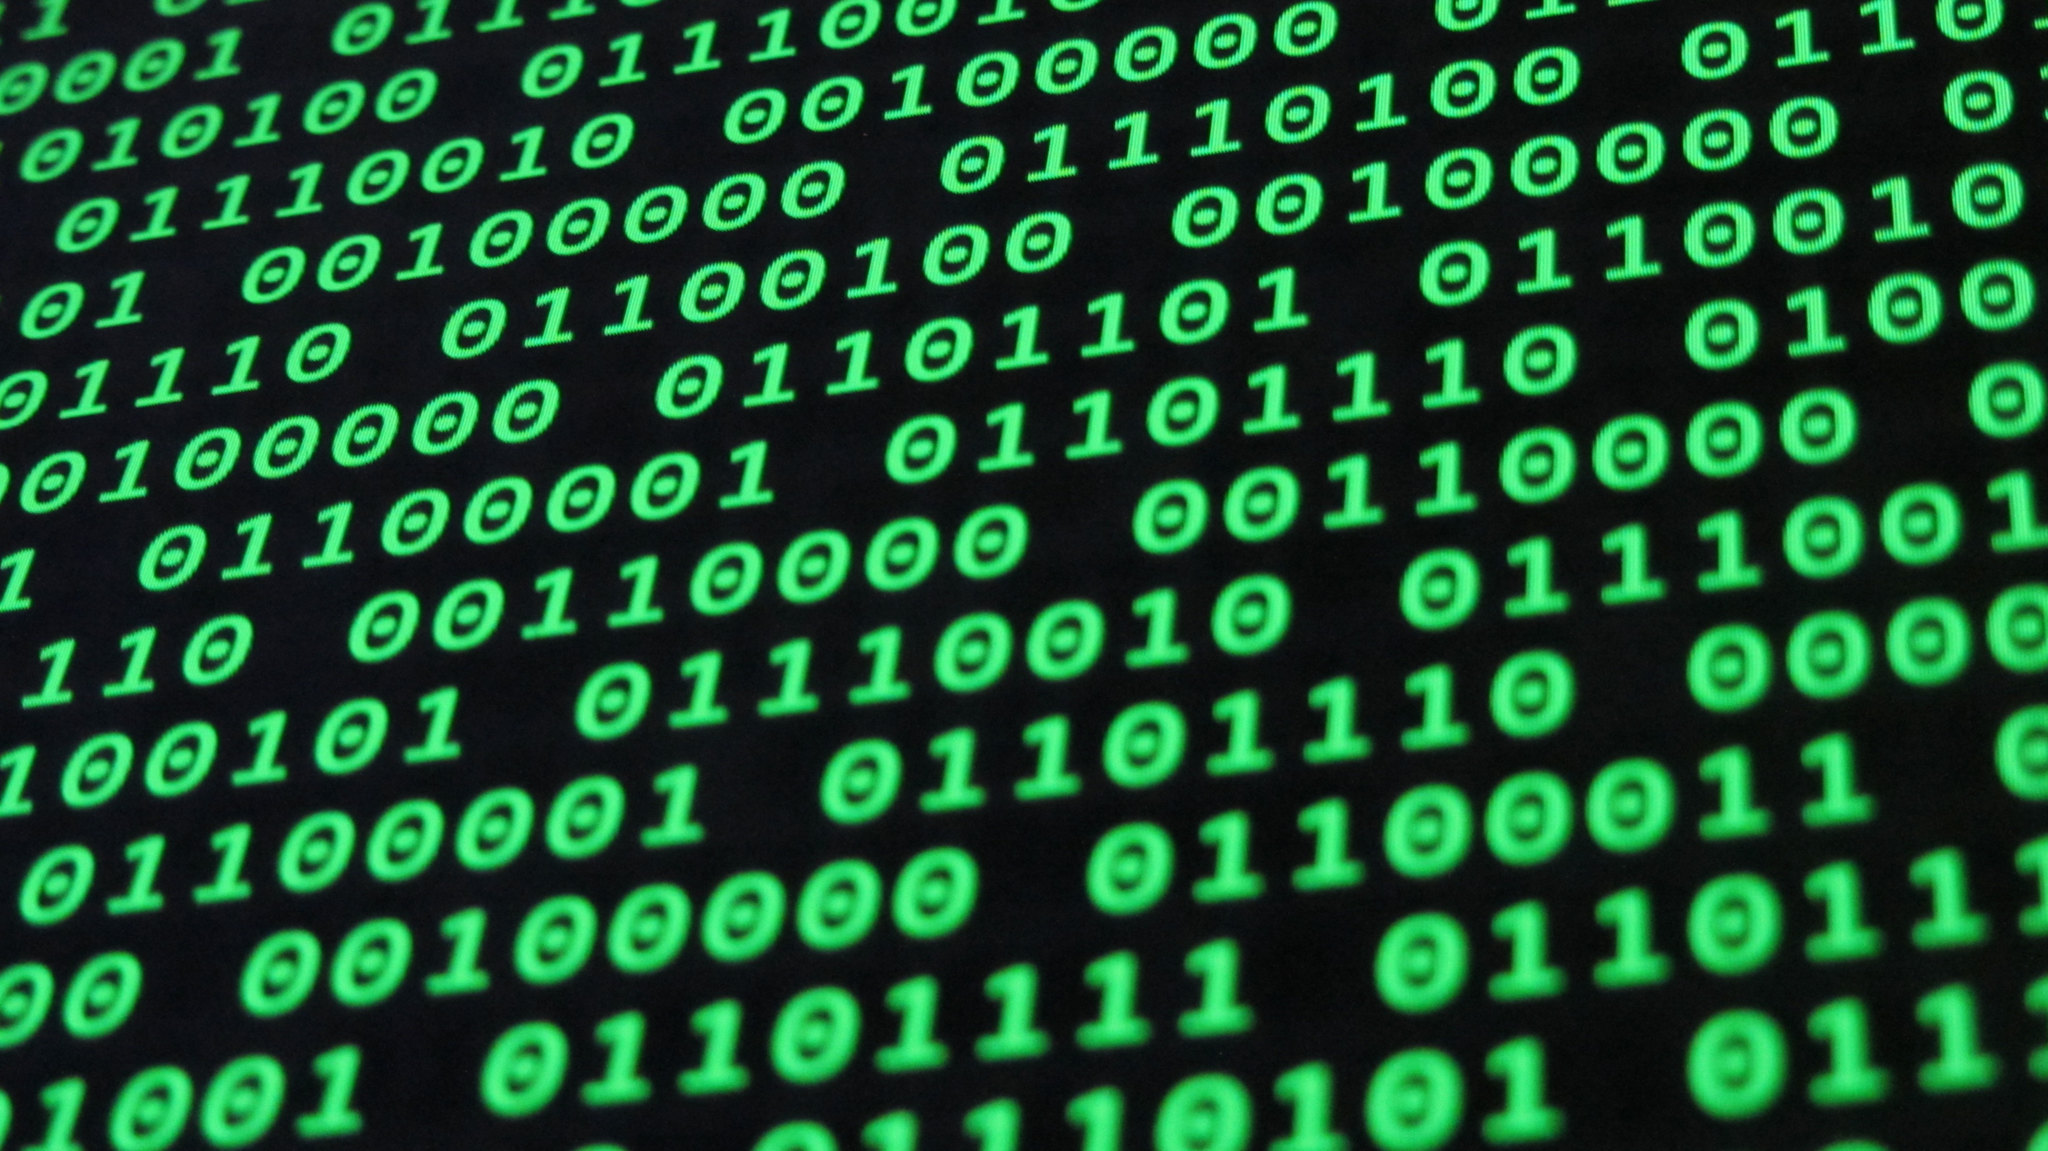
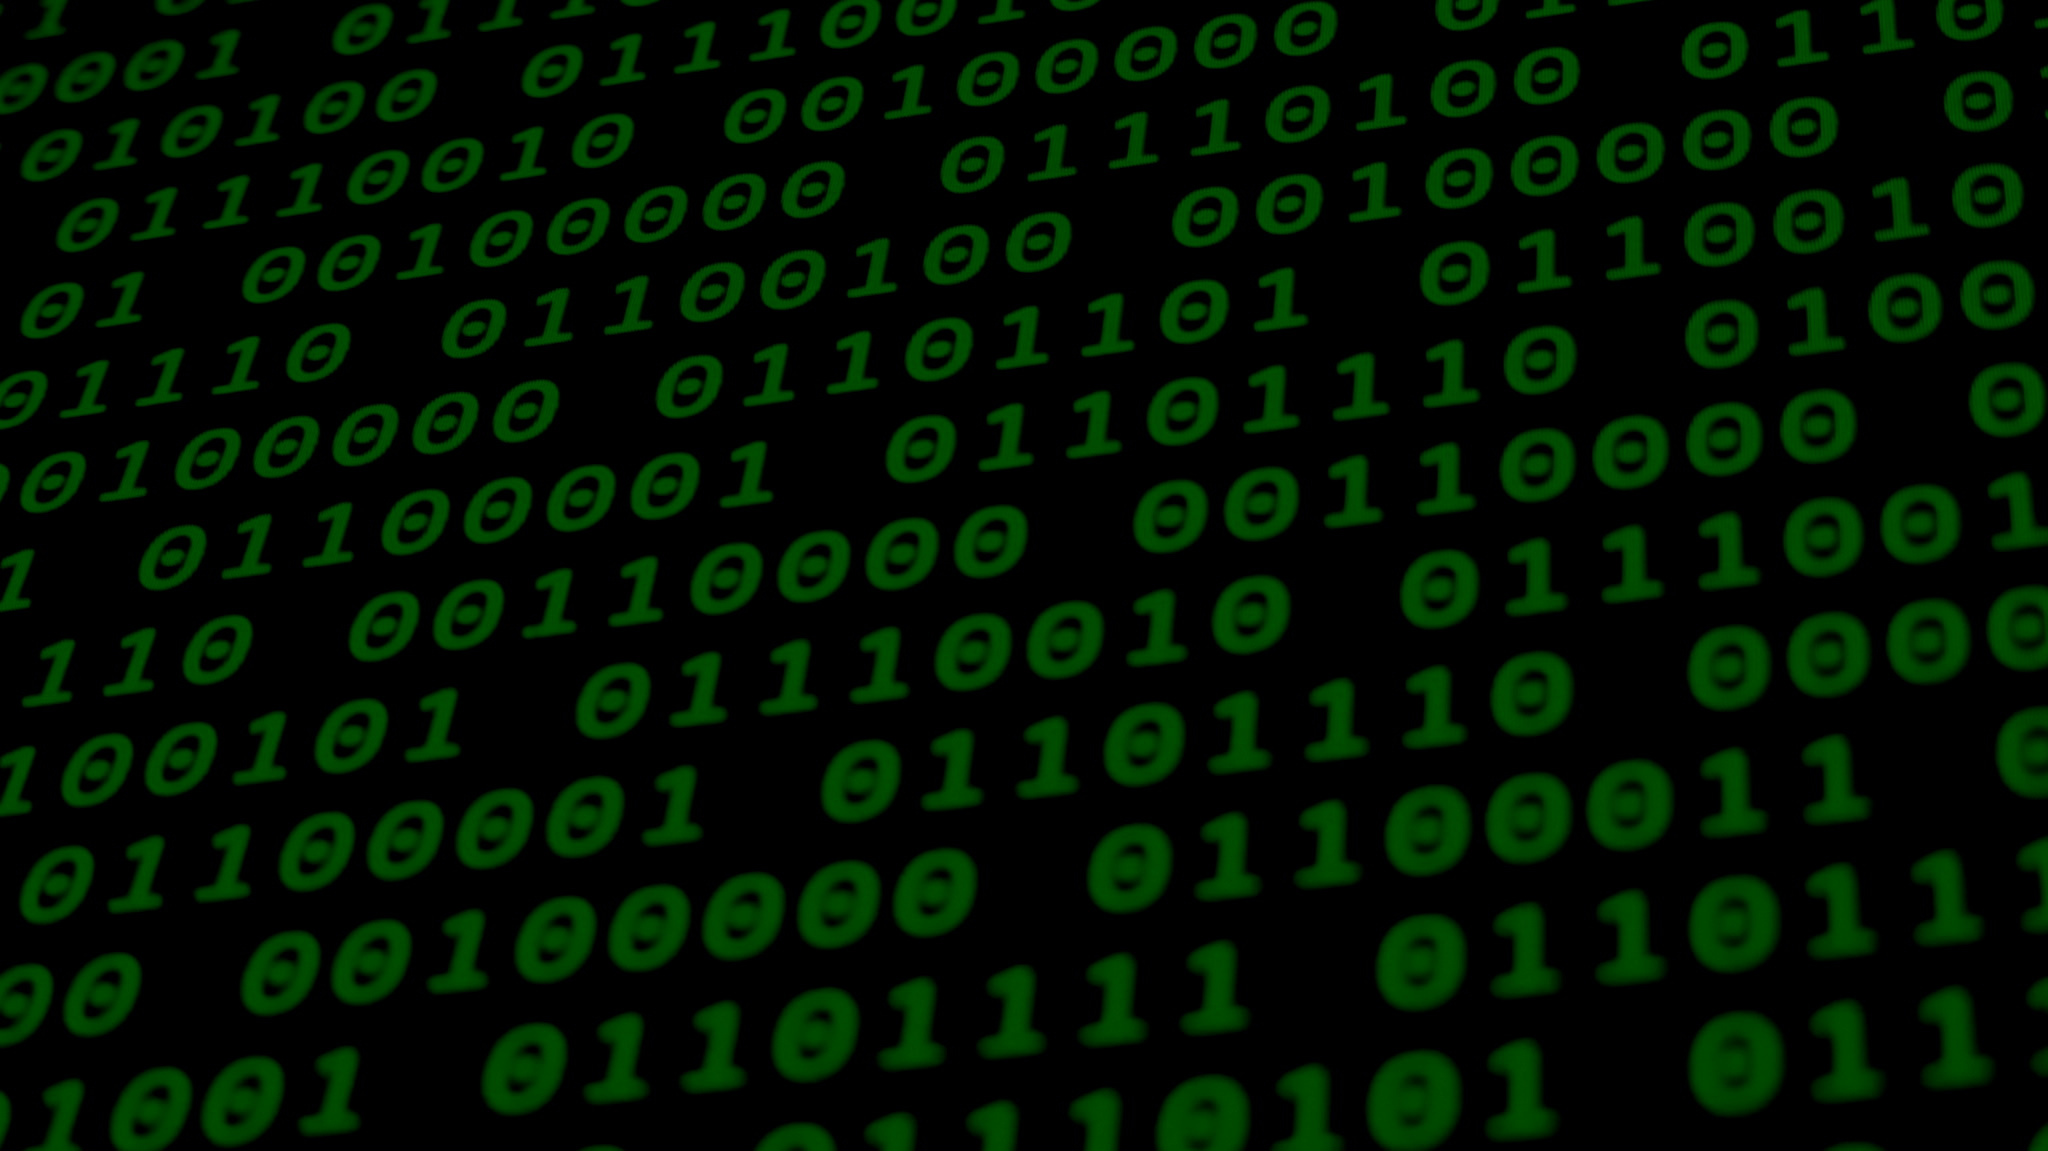
added homescreen image

diff --git a/index.html b/index.html
@@ -30,10 +30,49 @@
 				</ul>
 			</div>
 		<main>
-			<div id="title">
+			<div>
 				<!-- INSERT IMAGE-->
-				<h1>Python Printing</h1>
+				<h1 id="title">Python Printing</h1>
+				<img src="images/backgrounds/code_stream.jpg" id="main_image" />
 			</div>
+
+			<article id="info">
+				<h2><b>Information |</b> <i>... What is this?</i></h2>
+
+				<div class="text">
+					<p>
+						Lorem ipsum is adnwo dwao2d  dwadmoaidwa
+					</p>
+
+					<div class="view_button"><!--view button code--></div>
+
+					<p>
+						Lorem ni1o 10e102ej qm CJ91ncem13c yn1jq2cu2qn - Sir Issac Newton
+					</p>
+
+					<div class="view_button"><!--view button code--></div>
+
+					<p>
+						Helow dadmoea dmaoef re moef sm weao feamf eoma feo faeof afea. feonia.
+					</p>
+
+					<div class="view_button"><!--view button code--></div>
+				</div>
+				<div class="code_terminal">
+					<h4>Python 3.8.5</h4>
+					<h4>14/09/20</h4>
+
+					<p class="code">
+						<span class="comment"># Code Stuff</span><br />
+						<span class="variable">pan of the cake</span> = 321 <br />
+						<span class="function">if </span><span class="variable">pancake</span> > 1000:<br />
+						<span class="exec">print</span>(<span class="string">"Lots of pancakes you've got there"</span>)
+					</p>
+
+					<div class="copy_code"><!-- Copy code button--></div>
+					<div class="fullscreen"><!-- Fullscreen mode--></div>
+				</div>
+			</article>
 
 			<article id="basic">
 				<h2><b>The Basics |</b> <i>How does one python?</i></h2>

diff --git a/css/style.css b/css/style.css
@@ -48,10 +48,10 @@ li:hover{
 body{
     background-color:black;
     color:#FFFFF0;
+    margin:0 auto;
 }
 
 article {
-    background-color: #0f0f0f;
     padding-left: 12%;
     padding-right: 12%;
     min-height: 500px;
@@ -71,4 +71,19 @@ h2{
     width:40%;
     float:left;
     margin-left:20%;
+}
+
+#title{
+    text-align:center;
+    position:absolute;
+    width:100%;
+    padding-top:100px;
+}
+
+#main_image{
+    width:100%;
+}
+
+#basic {
+    background-color: #0F0F0F;
 }
